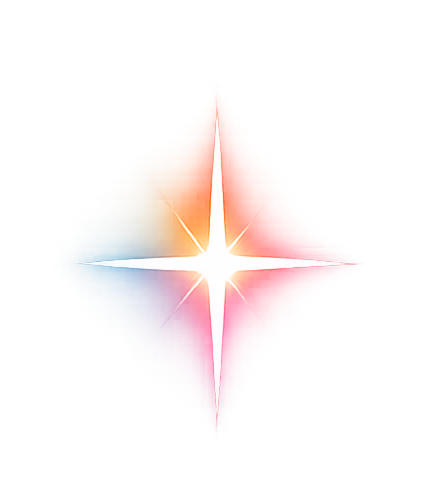
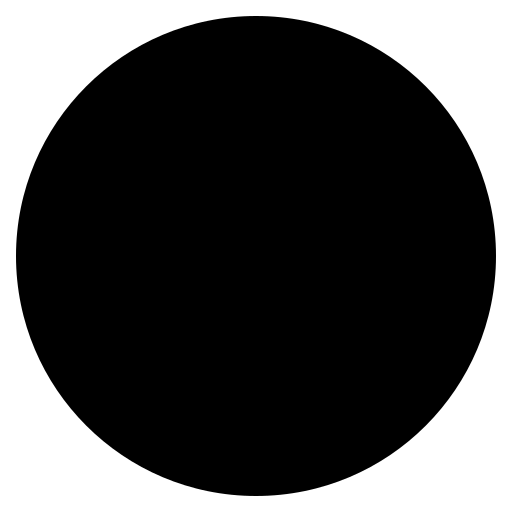
Yesss

diff --git a/src/components/AdaptiveFavicon.tsx b/src/components/AdaptiveFavicon.tsx
@@ -1,0 +1,46 @@
+// Keep a static PNG discoverable by crawlers, then select its theme early for Safari.
+const faviconScript = `(() => {
+  const theme = window.matchMedia("(prefers-color-scheme: dark)");
+  const icon = document.querySelector('link[rel="icon"]') || document.createElement("link");
+  icon.id = "slbh-favicon";
+  icon.rel = "icon";
+  icon.type = "image/png";
+  icon.sizes = "32x32";
+
+  const mask = document.createElement("link");
+  mask.rel = "mask-icon";
+  mask.href = "/safari-pinned-tab.svg";
+
+  const update = () => {
+    const href = theme.matches ? "/favicon-dark-32.png?v=3" : "/favicon-32.png?v=3";
+    document.head.querySelectorAll('link[rel="icon"]').forEach((link) => {
+      link.href = href;
+      link.type = "image/png";
+      link.sizes = "32x32";
+    });
+    mask.setAttribute("color", theme.matches ? "#fff" : "#000");
+  };
+
+  document.head.append(icon, mask);
+  update();
+  theme.addEventListener("change", update);
+
+  // Next.js can restore static metadata during hydration and navigation.
+  new MutationObserver((records) => {
+    if (records.some((record) => Array.from(record.addedNodes).some(
+      (node) => node.nodeName === "LINK" && node.rel === "icon"
+    ))) update();
+  }).observe(document.head, { childList: true });
+})();`;
+
+export function AdaptiveFavicon() {
+  return (
+    <>
+      <script id="favicon-theme" dangerouslySetInnerHTML={{ __html: faviconScript }} />
+      <noscript>
+        <link rel="icon" href="/favicon.svg?v=3" type="image/svg+xml" sizes="any" />
+        <link rel="mask-icon" href="/safari-pinned-tab.svg" color="#000" />
+      </noscript>
+    </>
+  );
+}

diff --git a/src/app/layout.tsx b/src/app/layout.tsx
@@ -5,6 +5,7 @@ import { Nav } from "@/components/Nav";
 import { Footer } from "@/components/Footer";
 import { AmbientShape } from "@/components/AmbientShape";
 import { CircleCursor } from "@/components/CircleCursor";
+import { AdaptiveFavicon } from "@/components/AdaptiveFavicon";
 
 const orbitron = Orbitron({
   subsets: ["latin"],
@@ -32,11 +33,8 @@ export const metadata: Metadata = {
   description:
     "Studio Lab BH is an independent systems studio and research practice founded by Brendon Hawkins. The work moves between theory, research, and application. Affect is its first formal field of inquiry.",
   icons: {
-    icon: [
-      { url: "/favicon.svg", type: "image/svg+xml" },
-      { url: "/favicon-32.png", type: "image/png", sizes: "32x32" },
-    ],
-    apple: "/apple-touch-icon.png",
+    icon: { url: "/favicon-32.png?v=3", type: "image/png", sizes: "32x32" },
+    apple: "/apple-touch-icon.png?v=3",
   },
 };
 
@@ -45,6 +43,9 @@ export default function RootLayout({
 }: Readonly<{ children: React.ReactNode }>) {
   return (
     <html lang="en">
+      <head>
+        <AdaptiveFavicon />
+      </head>
       <body
         className={`${orbitron.variable} ${inter.variable} ${plexMono.variable}`}
       >
